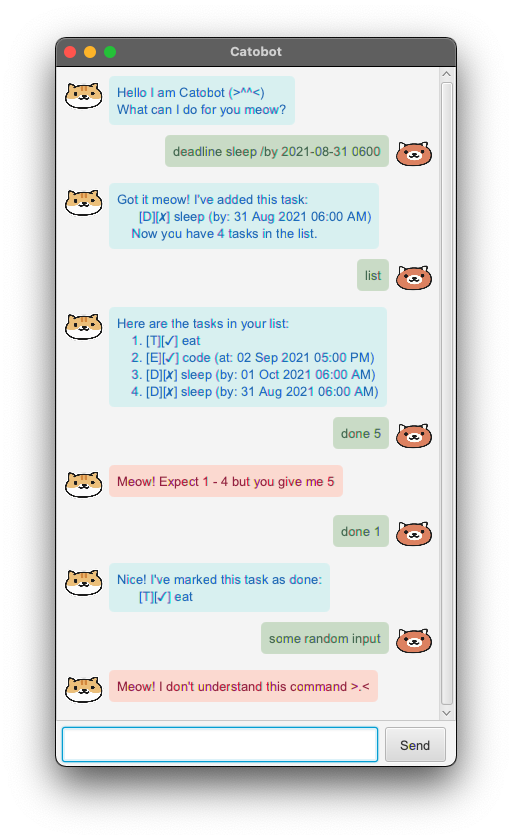
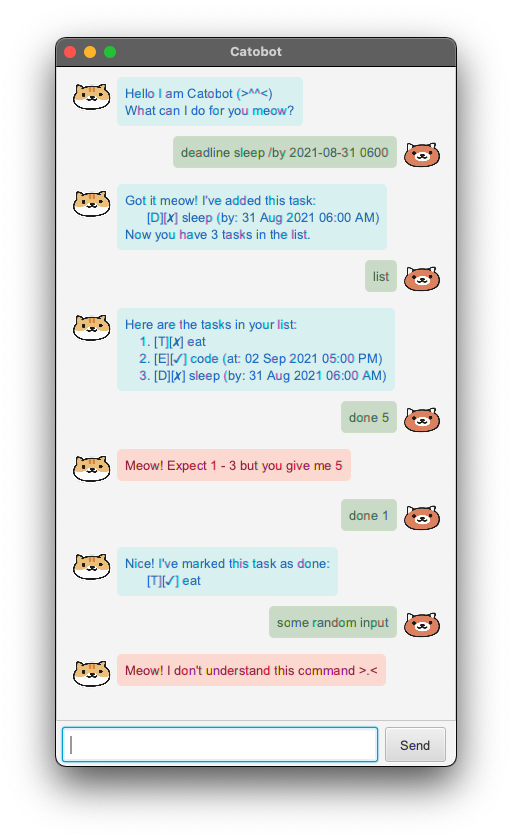
Add User Guide

Changed region(s): [[0.125, 0.0929, 0.875, 0.8357]]

diff --git a/src/main/java/catobot/item/TaskList.java b/src/main/java/catobot/item/TaskList.java
@@ -52,7 +52,7 @@ public class TaskList {
         this.taskList.add(item);
         String front = "Got it meow! I've added this task:";
         String back = checkSize();
-        return String.format("%s\n      %s\n    %s", front, item, back);
+        return String.format("%s\n      %s\n%s", front, item, back);
     }
 
     /**
@@ -95,7 +95,7 @@ public class TaskList {
         Task temp = taskList.get(index - 1);
         taskList.remove(temp);
         return String.format(
-                "Noted. I've removed this task:\n      %s\n      %s", temp, checkSize());
+                "Noted. I've removed this task:\n      %s\n%s", temp, checkSize());
     }
 
     /**

diff --git a/src/main/java/catobot/Main.java b/src/main/java/catobot/Main.java
@@ -27,6 +27,7 @@ public class Main extends Application {
             AnchorPane ap = fxmlLoader.load();
             Scene scene = new Scene(ap);
             stage.setScene(scene);
+            stage.setTitle("Catobot");
             fxmlLoader.<MainWindow>getController().setCatobot(catobot);
             stage.show();
 

diff --git a/docs/README.md b/docs/README.md
@@ -2,28 +2,163 @@
 
 ## Features 
 
-### Feature-ABC
+### Interactive User Command Line Input
+- Receive user command and respond.
+- See examples of valid input when input is invalid.
+- Exit the app and update local storage using command.
 
-Description of the feature.
+### Basic Task Management
 
-### Feature-XYZ
+- Create, delete three types of tasks: todo, event and deadline.
+- Mark a task as done.
+- View the list of tasks.
 
-Description of the feature.
+### Advanced Task Management
+
+- Find a matching task using descriptions.
+- Filter and sort different types of tasks.
+
+### Storage
+- Store the current list of tasks locally.
+- Load local storage of tasks.
+
 
 ## Usage
 
-### `Keyword` - Describe action
+### `list` - List tasks
+List all current tasks.
 
-Describe the action and its outcome.
-
-Example of usage: 
-
-`keyword (optional arguments)`
+Format and example of usage: `list`
 
 Expected outcome:
 
-Description of the outcome.
+```
+Here are Ihe lasks in your list:
+  1. [T][✓] eat 
+  2. [E][✗] code (at 02 Sep 2021 05:00 PM)
+  3. [D][✗] sleep (by: 01 Aug 2021 06:00 AM)
+```
+
+### `deadline` - Add deadline
+Add a deadline with description and due date.
+
+Format: `deadline <description> /by <yyyy-MM-dd HHmm>`
+
+Example of usage: `deadline study /by 2024-05-01 2359`
+
+Expected outcome:
 
 ```
-expected output
+Got it meow! I've added this task:
+    [D][✗] study (by: 01 May 2024 11:59 PM)
+Now you have 5 tasks in the list.
+```
+
+### `event` - Add event
+Add an event with description and happening date.
+
+Format: `event <description> /at <yyyy-MM-dd HHmm>`
+
+Example of usage:
+ `event study /at 2024-05-01 2359`
+
+Expected outcome:
+
+```
+Got it meow! I've added this task:
+    [E][✗] study (at: 01 May 2024 11:59 PM)
+Now you have 5 tasks in the list.
+```
+
+### `todo` - Add todo
+Add a todo with description.
+
+Format: `todo <description>`
+
+Example of usage: `todo sleep`
+
+Expected outcome:
+
+```
+Got it meow! I've added this task:
+    [T][✗] sleep
+Now you have 5 tasks in the list.
+```
+
+### `delete` - Delete a task
+Delete a task from the list.
+
+Format: `delete <index>`
+
+Example of usage:
+ `delete 1`
+
+Expected outcome:
+
+```
+Noted. I've removed this task:
+    [T][✓] eat 
+Now you have 4 tasks in the list.
+```
+
+### `done` - Mark a task as done
+Delete a task from the list.
+
+Format: `done <index>`
+
+Example of usage:
+ `done 3`
+
+Expected outcome:
+
+```
+Noted. I've marked this task as done:
+    [D][✓] sleep (by: 01 Aug 2021 06:00 AM)
+```
+
+### `sort` - Sort a type of tasks
+
+Sort a specific type of tasks in the list. If type is `deadline` or `event`, it will sort chronologically with the latest first.
+If type is `todo`, it will sort lexicographically.
+
+Format: `sort <task_type>`
+
+Example of usage:
+`sort deadline`
+
+Expected outcome:
+
+```
+Here are the sorted deadline in your list:
+    1. [D][x] graduation (by: 01 May 2020 11:59 PM) 
+    2. [D][x] sleep (by: 01 Oct 2021 06:00 AM) 
+    3. [D][✓] hello (by: 31 Aug 2021 06:00 AM) 
+```
+
+### `find` - Find a task
+
+Find tasks that match with the given description.
+
+Format: `find <keyword>`
+
+Example of usage: `find life`
+
+Expected outcome:
+
+```
+Here are the sorted deadline in your list:
+    1. [T][x] no life
+    2. [E][x] have fun in life (by: 01 Oct 2023 06:00 AM) 
+    3. [D][✓] lifestyle (by: 31 Aug 2021 06:00 AM) 
+```
+
+### `bye` - Exit the app
+
+Exit the app. The list data will automatically be saved.
+
+Format and example of usage: `exit`
+
+Expected outcome:
+```
+Bye meow! I will always wait here meow(>^^<)
 ```
